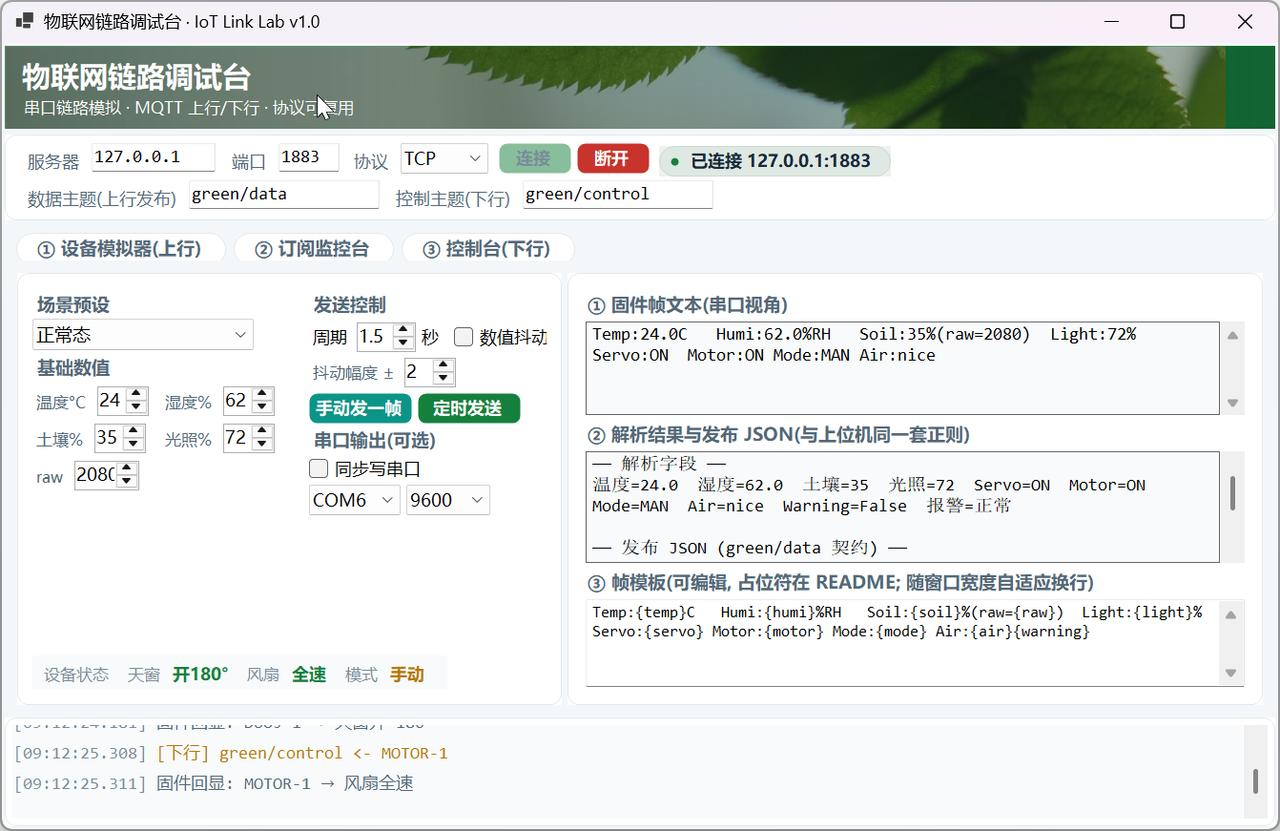
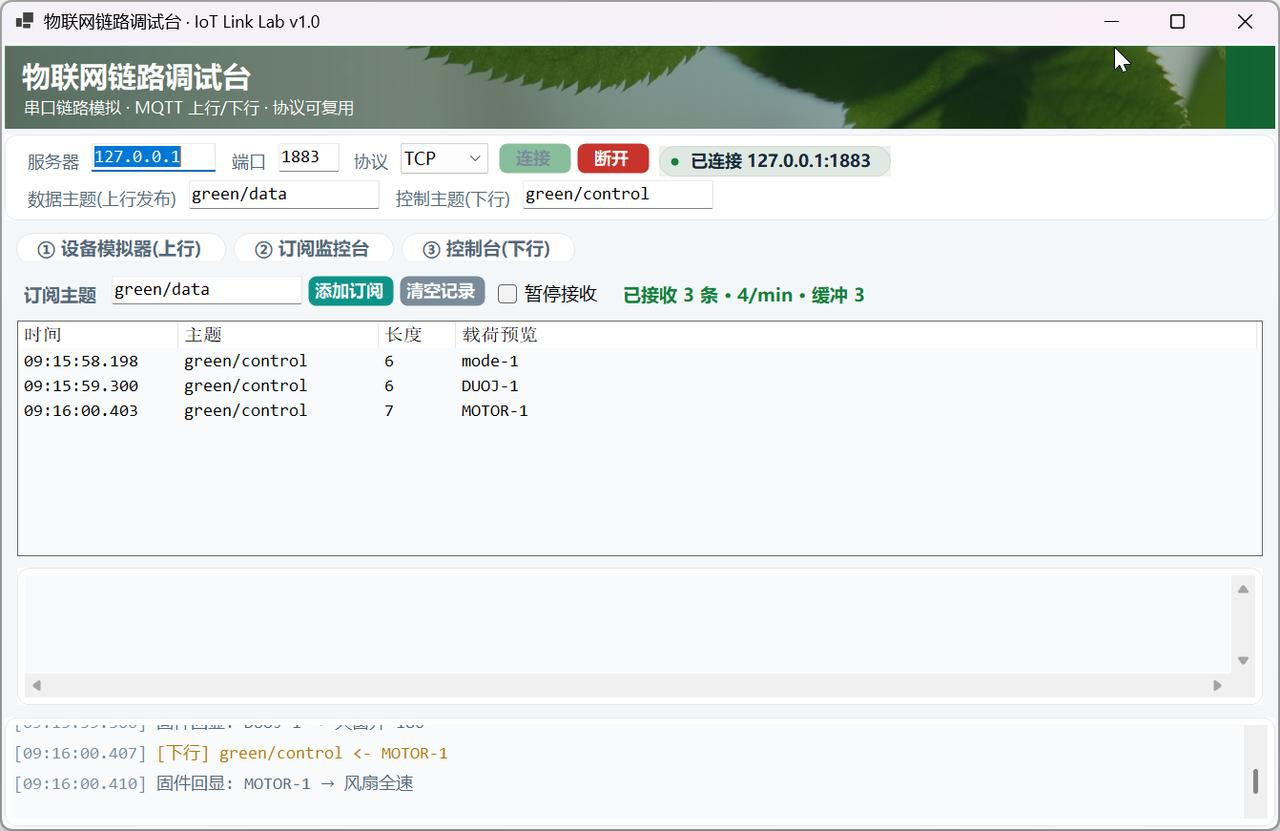
fix(测试工具): 监控台时间列按设备 DPI 换算宽度, 不再截断为 09:15…

diff --git a/05-Testing-Tool/WinFormsApp1/MonitorTab.cs b/05-Testing-Tool/WinFormsApp1/MonitorTab.cs
@@ -63,10 +63,13 @@ namespace IotLinkLab
                 BackColor = Theme.FieldBg, BorderStyle = BorderStyle.FixedSingle, Font = Theme.Mono(9F),
                 HideSelection = false
             };
-            _list.Columns.Add("时间", 90);
-            _list.Columns.Add("主题", 150);
-            _list.Columns.Add("字节", 50);
-            _list.Columns.Add("载荷预览", 620);
+            // 列宽按设备 DPI 换算: ListView 列宽不随 AutoScale 自动缩放,
+            // 150% 缩放下若不换算会把 "HH:mm:ss.fff" 截断成 "09:14:3…"
+            int Scale(int v) => (int)(v * DeviceDpi / 96.0);
+            _list.Columns.Add("时间", Scale(112));
+            _list.Columns.Add("主题", Scale(140));
+            _list.Columns.Add("长度", Scale(54));
+            _list.Columns.Add("载荷预览", Scale(560));
             _list.SelectedIndexChanged += (s, e) =>
             {
                 if (_list.SelectedItems.Count > 0)
